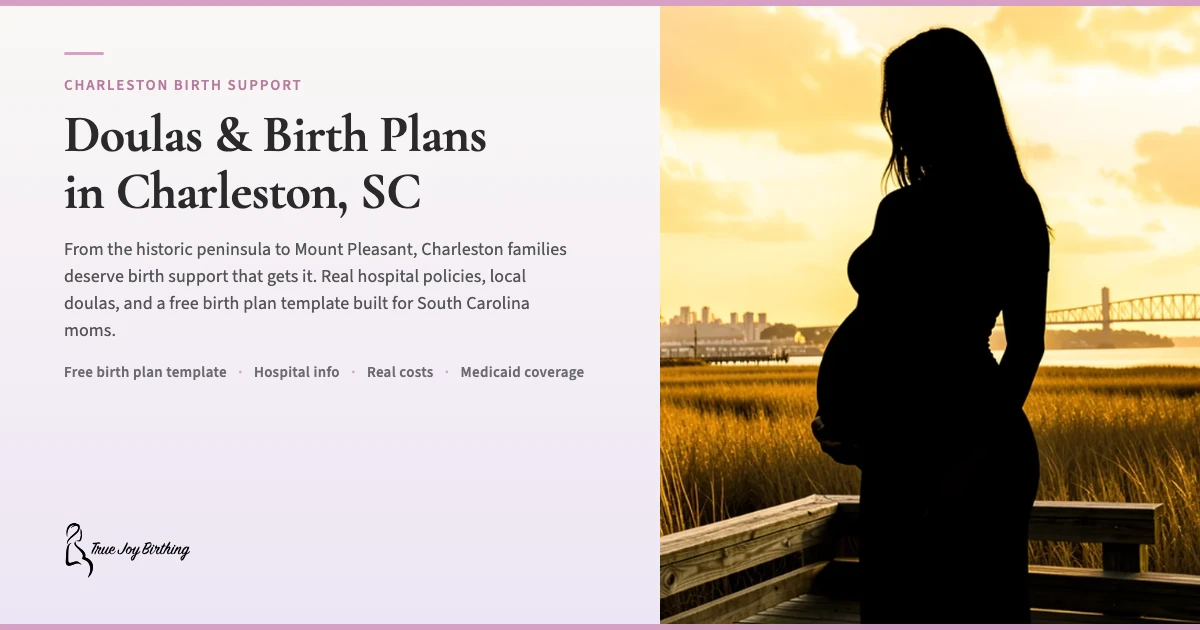
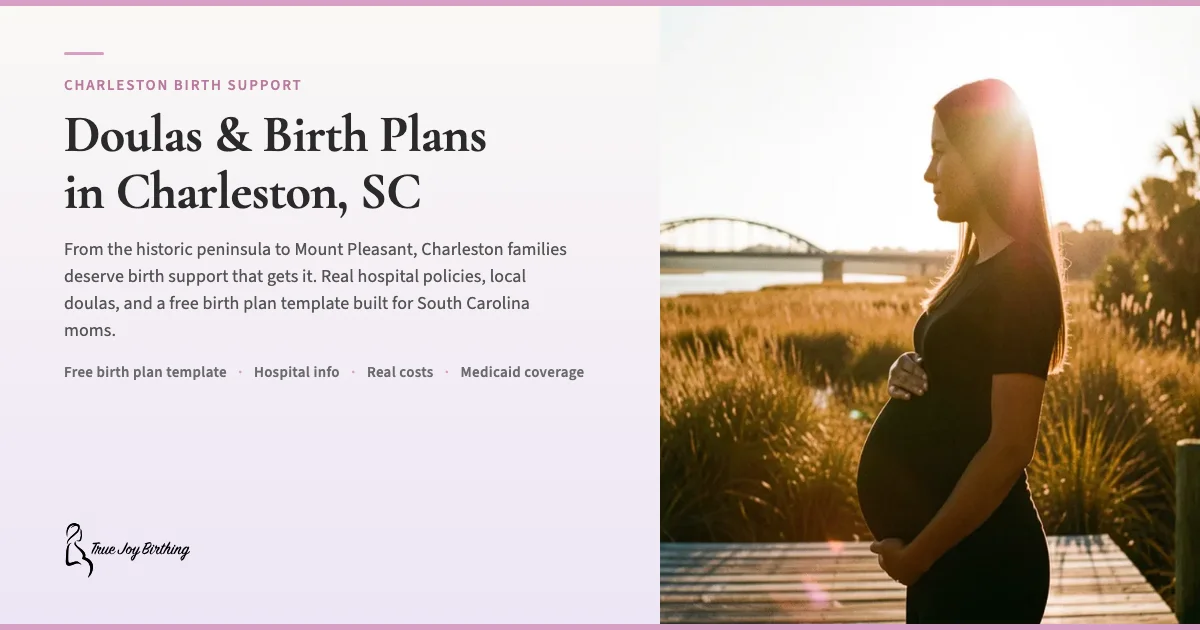
charleston-sc: fix hero to photographic (v4), add supportSceneImage, regen OG [preflight: pass]

diff --git a/src/data/cities.ts b/src/data/cities.ts
@@ -2837,7 +2837,8 @@ export const cities: Record<string, CityData> = {
     city: "Charleston" ,
     state: "SC" ,
     slug: "charleston-sc" ,
-    heroImage: "/images/charleston-sc-birth-doula-skyline-v2.webp" ,
+    heroImage: "/images/charleston-sc-birth-doula-skyline-v4.webp",
+        supportSceneImage: "/images/charleston-sc-support-scene.webp" ,
     ogImage: "/images/og-city-charleston-sc.webp" ,
     costLow: 900,
     costHigh: 2200,
@@ -4138,7 +4139,7 @@ export const cities: Record<string, CityData> = {
     shelbiServesHere: false,
     heroImage: "/images/laurel-md-birth-doula-skyline.webp",
     ogImage: "https://truejoybirthing.com/images/og-city-laurel-md.webp",
-    supportSceneImage: "/images/laurel-md-birth-doula-support-v2.webp",
+    supportSceneImage: "/images/laurel-md-birth-doula-support-v3.webp",
     supportSceneAlt: "A doula supporting an expectant mom on a tree-lined path in Laurel, Maryland at golden hour" ,
     midwifeInfo: {
       paragraph: "Maryland licenses CNMs through the Board of Nursing and Licensed Direct-Entry Midwives (LDEMs) under COMAR 10.64, making both hospital and home birth midwifery legally regulated. CNMs practice at UM Capital Region and Holy Cross Hospital, while LDEMs attend home births statewide. My Way Birth and Women's Services offers home birth midwifery care from a local Laurel office." ,

diff --git a/scripts/og-city-charleston-sc-composition.html b/scripts/og-city-charleston-sc-composition.html
@@ -155,7 +155,7 @@
                      template built for Colorado moms."
   Free birth plan template <span>·</span> Hospital info <span>·</span> Real costs <span>·</span> Medicaid coverage     → e.g. "Free birth plan template · Hospital info · Real costs · Medicaid coverage"
                      (Use · separator between items)
-  https://truejoybirthing.com/images/charleston-sc-birth-doula-skyline.webp  → Production URL of city hero image, or gradient fallback.
+  https://truejoybirthing.com/images/charleston-sc-birth-doula-skyline-v4.webp  → Production URL of city hero image, or gradient fallback.
                      Denver: https://truejoybirthing.com/images/denver-hero-front-range.webp
                      Other cities without hero: Use branded gradient div instead (see below)
   https://truejoybirthing.com/images/logo-mono.svg    → https://truejoybirthing.com/images/logo-mono.svg
@@ -195,7 +195,7 @@
     </div>
   </div>
   <div class="right-column">
-    <img src="file:///Users/socializerender/Projects/truejoybirthing-website/public/images/charleston-sc-birth-doula-skyline.webp" alt="Charleston, SC" />
+    <img src="file:///Users/socializerender/Projects/truejoybirthing-website/public/images/charleston-sc-birth-doula-skyline-v4.webp" alt="Charleston, SC" />
   </div>
 </div>
 </body>
